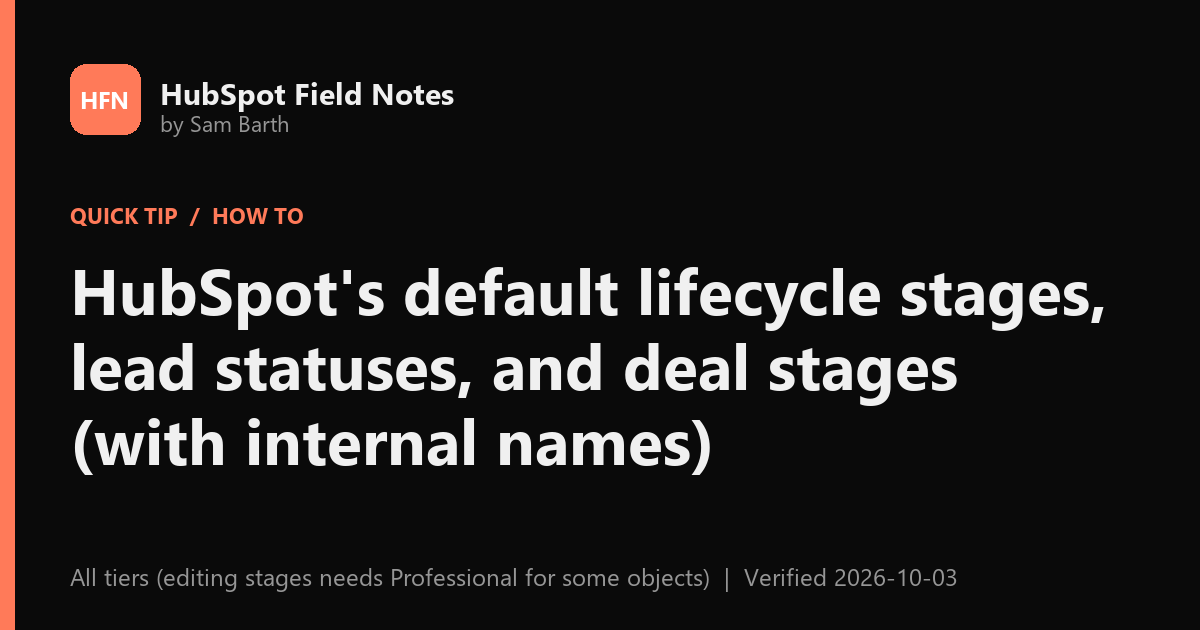
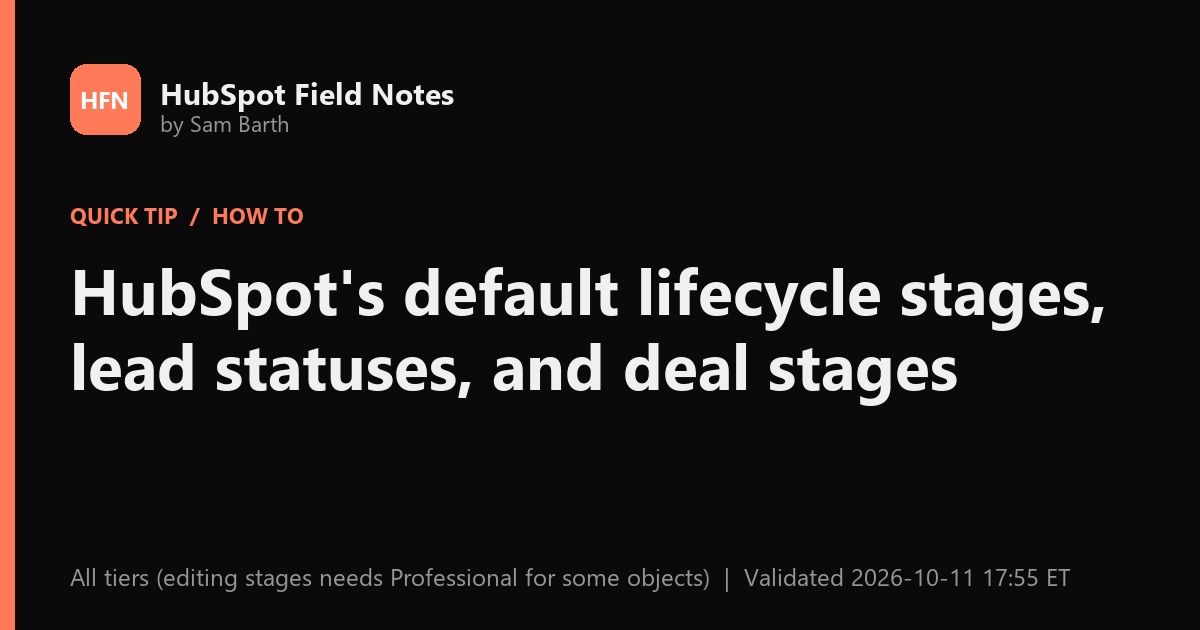
Rewrite which-reports-hubspot-can-build and default-lifecycle-and-deal-stages from KB, add Validated stamps

Changed region(s): [[0.0617, 0.6635, 0.6167, 0.754], [0.6167, 0.9048, 0.8942, 0.9349]]

diff --git a/articles/default-lifecycle-and-deal-stages/index.html b/articles/default-lifecycle-and-deal-stages/index.html
@@ -13,13 +13,13 @@
 <script>try{var t=localStorage.getItem('hfn-theme');if(t)document.documentElement.setAttribute('data-theme',t)}catch(e){}</script>
 <script id="hs-script-loader" async defer src="https://js.hs-scripts.com/20693956.js"></script>
 <!--/head-->
-<title>HubSpot's default lifecycle stages, lead statuses, and deal stages (with internal names) - HubSpot Field Notes</title>
-<meta name="description" content="The out-of-the-box HubSpot lifecycle stages, lead statuses, and default Sales Pipeline deal stages, with the internal values you need for imports, workflows, and APIs.">
+<title>HubSpot's default lifecycle stages, lead statuses, and deal stages - HubSpot Field Notes</title>
+<meta name="description" content="The out-of-the-box HubSpot lifecycle stages, lead statuses, and default Sales Pipeline deal stages, in order, with the lifecycle internal values for imports and workflows.">
 <link rel="canonical" href="https://hubspot.samcbarth.com/articles/default-lifecycle-and-deal-stages/">
 <meta property="og:type" content="article">
 <meta property="og:url" content="https://hubspot.samcbarth.com/articles/default-lifecycle-and-deal-stages/">
-<meta property="og:title" content="HubSpot's default lifecycle stages, lead statuses, and deal stages (with internal names)">
-<meta property="og:description" content="The out-of-the-box HubSpot lifecycle stages, lead statuses, and default Sales Pipeline deal stages, with the internal values you need for imports, workflows, and APIs.">
+<meta property="og:title" content="HubSpot's default lifecycle stages, lead statuses, and deal stages">
+<meta property="og:description" content="The out-of-the-box HubSpot lifecycle stages, lead statuses, and default Sales Pipeline deal stages, in order, with the lifecycle internal values for imports and workflows.">
 <meta property="og:image" content="https://hubspot.samcbarth.com/articles/default-lifecycle-and-deal-stages/og.png">
 <meta property="article:published_time" content="2026-10-03">
 <meta property="article:modified_time" content="2026-10-03">
@@ -30,8 +30,8 @@
   "@graph": [
     {
       "@type": "TechArticle",
-      "headline": "HubSpot's default lifecycle stages, lead statuses, and deal stages (with internal names)",
-      "description": "The out-of-the-box HubSpot lifecycle stages, lead statuses, and default Sales Pipeline deal stages, with the internal values you need for imports, workflows, and APIs.",
+      "headline": "HubSpot's default lifecycle stages, lead statuses, and deal stages",
+      "description": "The out-of-the-box HubSpot lifecycle stages, lead statuses, and default Sales Pipeline deal stages, in order, with the lifecycle internal values for imports and workflows.",
       "datePublished": "2026-10-03",
       "dateModified": "2026-10-03",
       "author": { "@type": "Person", "name": "Sam Barth", "url": "https://samcbarth.com" },
@@ -55,7 +55,7 @@
       "@type": "BreadcrumbList",
       "itemListElement": [
         { "@type": "ListItem", "position": 1, "name": "HubSpot Field Notes", "item": "https://hubspot.samcbarth.com/" },
-        { "@type": "ListItem", "position": 2, "name": "HubSpot's default lifecycle stages, lead statuses, and deal stages (with internal names)", "item": "https://hubspot.samcbarth.com/articles/default-lifecycle-and-deal-stages/" }
+        { "@type": "ListItem", "position": 2, "name": "HubSpot's default lifecycle stages, lead statuses, and deal stages", "item": "https://hubspot.samcbarth.com/articles/default-lifecycle-and-deal-stages/" }
       ]
     }
   ]
@@ -86,13 +86,13 @@
     <nav class="crumbs" aria-label="Breadcrumb"><a href="../../">All articles</a> / <a href="../../?feature=Properties">Properties</a></nav>
     <header class="article-head">
       <div class="badges"><span class="badge badge-type">Quick tip</span><span class="badge badge-problem">How to</span><span class="badge">Smart CRM</span><span class="badge">Sales Hub</span></div>
-      <h1>HubSpot's default lifecycle stages, lead statuses, and deal stages (with internal names)</h1>
+      <h1>HubSpot's default lifecycle stages, lead statuses, and deal stages</h1>
       <p class="dek">Someone asks what HubSpot's standard stages are, or you need the exact internal value for an import file. Here they are, checked in a live portal.</p>
       <dl class="facts">
         <div class="fact"><dt>Subscription</dt><dd>All tiers (editing stages needs Professional for some objects)</dd></div>
         <div class="fact"><dt>Permissions</dt><dd>Any user can view; Edit property settings to change</dd></div>
         <div class="fact"><dt>Time</dt><dd>5 min &middot; Beginner</dd></div>
-        <div class="fact"><dt>Last verified</dt><dd><time datetime="2026-10-03">October 3, 2026</time></dd></div>
+        <div class="fact"><dt>Validated</dt><dd><time datetime="2026-10-11T17:55:00-04:00">October 11, 2026, 5:55 PM ET</time></dd></div>
       </dl>
       <div data-portal-box></div>
     </header>
@@ -102,7 +102,7 @@
       <article class="prose">
         <div class="tldr">
           <h2>Short answer</h2>
-          <p>Default lifecycle stages: Subscriber, Lead, Marketing Qualified Lead, Sales Qualified Lead, Opportunity, Customer, Evangelist, Other. Default lead statuses: New, Open, In Progress, Open Deal, Unqualified, Attempted to Contact, Connected, Bad Timing. Default Sales Pipeline: Appointment Scheduled, Qualified To Buy, Presentation Scheduled, Decision Maker Bought-In, Contract Sent, Closed Won, Closed Lost. Internal names are below, because imports and APIs need them, not the labels.</p>
+          <p>Default lifecycle stages, in order: Subscriber, Lead, Marketing Qualified Lead, Sales Qualified Lead, Opportunity, Customer, Evangelist, Other. Default lead statuses: New, Open, In Progress, Open Deal, Unqualified, Attempted to Contact, Connected, Bad Timing. Default Sales Pipeline stages: Appointment scheduled, Qualified to buy, Presentation scheduled, Decision maker bought-in, Contract sent, Closed won, Closed lost. Imports and APIs need the internal values, not the labels, so check those in your portal before you write a file.</p>
         </div>
 
         <h2>1. Lifecycle stages</h2>
@@ -119,30 +119,31 @@
         </ol>
         <figure class="shot"><a href="lifecycle.webp"><img src="lifecycle.webp" alt="Lifecycle Stage property options list showing labels and internal names with the internal name column highlighted" width="800" height="613" loading="lazy"></a><figcaption>Lifecycle Stage options and internal names. The With value column counts contacts in each stage.</figcaption></figure>
         <div class="callout"><span class="callout-title">Use the internal name in files</span><p>Workflows, forms, and API calls use the internal value. The label "Sales Qualified Lead" and the value <code>salesqualifiedlead</code> are not the same string in code.</p></div>
+        <p>The default property only moves forward through automatic updates. To set an earlier stage, clear the value first, manually or in a workflow.</p>
 
         <h2>2. Lead status</h2>
-        <p>Lead Status is a separate contact property. In the default setup the options are New (<code>NEW</code>), Open (<code>OPEN</code>), In Progress (<code>IN_PROGRESS</code>), Open Deal (<code>OPEN_DEAL</code>), Unqualified (<code>UNQUALIFIED</code>), Attempted to Contact (<code>ATTEMPTED_TO_CONTACT</code>), Connected (<code>CONNECTED</code>), and Bad Timing (<code>BAD_TIMING</code>). Many portals edit these, so check yours before copying a list.</p>
+        <p>Lead Status is a separate property. It describes the sub-stages within Sales Qualified Lead. The default options are New, Open, In Progress, Open Deal, Unqualified, Attempted to Contact, Connected, and Bad Timing. Many portals edit these, so check yours before you copy a list. Open the property's options to see the internal value for each one.</p>
 
         <h2>3. The default Sales Pipeline</h2>
         <p>On the <a class="hs-link" data-hs="/contacts/{portalId}/objects/0-3/views/all/list" href="https://app.hubspot.com/l/contacts/objects/0-3/views/all/list"><span class="ui">Deals</span></a> page, the pipeline picker lists every pipeline in the account. The default one is called Sales Pipeline. <span class="ui">Manage pipelines</span> at the bottom of the list opens the settings page.</p>
         <figure class="shot"><a href="pipeline-picker.webp"><img src="pipeline-picker.webp" alt="Deals board pipeline picker listing pipelines with Manage pipelines highlighted" width="800" height="613" loading="lazy"></a><figcaption>The pipeline picker. Manage pipelines opens pipeline settings.</figcaption></figure>
-        <p>Choosing Sales Pipeline shows its seven stages as columns on the board.</p>
+        <p>Choosing Sales Pipeline shows its stages as columns on the board.</p>
         <figure class="shot"><a href="board.webp"><img src="board.webp" alt="Deals board for the Sales Pipeline showing stage columns with the stage names highlighted" width="800" height="613" loading="lazy"></a><figcaption>Sales Pipeline stage columns. Deal names are blurred.</figcaption></figure>
-        <p>The stages, in order, with their internal IDs and default win probabilities:</p>
+        <p>The default deal stages, in order, with their default probabilities:</p>
         <ul>
-          <li>Appointment Scheduled (<code>appointmentscheduled</code>, 20%)</li>
-          <li>Qualified To Buy (<code>qualifiedtobuy</code>, 40%)</li>
-          <li>Presentation Scheduled (<code>presentationscheduled</code>, 60%)</li>
-          <li>Decision Maker Bought-In (<code>decisionmakerboughtin</code>, 80%)</li>
-          <li>Contract Sent (<code>contractsent</code>, 90%)</li>
-          <li>Closed Won (<code>closedwon</code>, 100%)</li>
-          <li>Closed Lost (<code>closedlost</code>, 0%)</li>
+          <li>Appointment scheduled (20%)</li>
+          <li>Qualified to buy (40%)</li>
+          <li>Presentation scheduled (60%)</li>
+          <li>Decision maker bought-in (80%)</li>
+          <li>Contract sent (90%)</li>
+          <li>Closed won (100%, won)</li>
+          <li>Closed lost (0%, lost)</li>
         </ul>
-        <p>Custom pipelines you create get numeric stage IDs instead, so look them up before you import deals into them.</p>
+        <p>To see a stage's internal ID, open the pipeline in the settings, then hover over the stage and click the internal name icon. Use that value in integrations and imports. Custom pipelines have their own stages, so look up their IDs the same way.</p>
 
         <h2>Sources</h2>
         <ul class="sources">
-          <li><a href="https://knowledge.hubspot.com/records/use-lifecycle-stages">HubSpot Knowledge Base: Use lifecycle stages</a></li>
+          <li><a href="https://knowledge.hubspot.com/records/use-lifecycle-stages">HubSpot Knowledge Base: Use contact and company lifecycle stages</a></li>
           <li><a href="https://knowledge.hubspot.com/object-settings/set-up-and-customize-pipelines">HubSpot Knowledge Base: Set up and manage object pipelines</a></li>
           <li><a href="https://knowledge.hubspot.com/properties/hubspots-default-deal-properties">HubSpot Knowledge Base: HubSpot's default deal properties</a></li>
         </ul>

diff --git a/index.html b/index.html
@@ -980,10 +980,10 @@
 <a class="card" href="articles/starter-page-limit/"><div class="badges"><span class="badge badge-type">Quick tip</span><span class="badge badge-problem">Gotcha</span><span class="badge">Content Hub</span></div><h3>&#39;You have reached your page limit&#39; in HubSpot: look at your drafts</h3><p>HubSpot&#39;s Starter tier limits how many landing pages you can create. Untitled drafts show up in the same list as live pages, so check them first.</p><div class="card-meta"><span>4 min</span><span>Beginner</span><span>Validated 2026-10-11 17:35 ET</span></div></a>
 <a class="card" href="articles/offline-sources-explained/"><div class="badges"><span class="badge badge-type">Guide</span><span class="badge badge-problem">Hidden trick</span><span class="badge">Marketing Hub</span><span class="badge">Smart CRM</span></div><h3>HubSpot &#39;Offline Sources&#39; is not offline: how to see what created those contacts</h3><p>Offline Sources is a traffic source bucket for records with no tracked web source. How to read the drill-downs, and the Record Source property that shows how a record was created.</p><div class="card-meta"><span>12 min</span><span>Intermediate</span><span>Validated 2026-10-11 17:40 ET</span></div></a>
 <a class="card" href="articles/campaign-zero-sessions/"><div class="badges"><span class="badge badge-type">Guide</span><span class="badge badge-problem">Fix it</span><span class="badge">Marketing Hub</span></div><h3>HubSpot campaign shows lots of influenced contacts but 0 sessions? You need tracking URLs</h3><p>A HubSpot campaign full of assets can show hundreds of influenced contacts and zero sessions. Sessions only count when visits arrive through the campaign&#39;s tracking URL.</p><div class="card-meta"><span>10 min</span><span>Intermediate</span><span>Validated 2026-10-11 17:45 ET</span></div></a>
-<a class="card" href="articles/which-reports-hubspot-can-build/"><div class="badges"><span class="badge badge-type">Guide</span><span class="badge badge-problem">How to</span><span class="badge">Smart CRM</span><span class="badge">Marketing Hub</span></div><h3>Which reports can HubSpot build? Report types, limits, and what needs a higher tier</h3><p>HubSpot&#39;s custom report types: single object, funnel, custom report builder, attribution, and email reports. What each can and cannot do, and which tier you need.</p><div class="card-meta"><span>8 min</span><span>Beginner</span><span>Verified 2026-10-03</span></div></a>
+<a class="card" href="articles/which-reports-hubspot-can-build/"><div class="badges"><span class="badge badge-type">Guide</span><span class="badge badge-problem">How to</span><span class="badge">Smart CRM</span><span class="badge">Marketing Hub</span></div><h3>Which reports can HubSpot build? Report types, limits, and what needs a higher tier</h3><p>HubSpot&#39;s custom report types: single object, funnel, custom report builder, attribution, and email reports. What each can and cannot do, and which tier you need.</p><div class="card-meta"><span>8 min</span><span>Beginner</span><span>Validated 2026-10-11 17:50 ET</span></div></a>
 <a class="card" href="articles/hubsql-beta-api/"><div class="badges"><span class="badge badge-type">Quick tip</span><span class="badge badge-problem">Developer</span><span class="badge">Smart CRM</span></div><h3>HubSQL beta: what it is, what it is not, and the 403 MISSING_SCOPES fix</h3><p>HubSpot&#39;s HubSQL beta lets you run SQL against CRM data over an API. What it can do, why it cannot connect to your SQL server, and how to fix a 403 for missing scopes.</p><div class="card-meta"><span>6 min</span><span>Advanced</span><span>Validated 2026-10-11 15:05 ET</span></div></a>
 <a class="card" href="articles/speed-up-landing-page/"><div class="badges"><span class="badge badge-type">Guide</span><span class="badge badge-problem">How to</span><span class="badge">Content Hub</span></div><h3>Speed up a HubSpot landing page: measure first, then fix images and page-level code</h3><p>How to find out why a HubSpot landing page is slow with Lighthouse, then fix the usual causes: heavy images, layout shift, and extra scripts in the page&#39;s Head and Footer HTML.</p><div class="card-meta"><span>15 min</span><span>Intermediate</span><span>Validated 2026-10-11 15:05 ET</span></div></a>
-<a class="card" href="articles/default-lifecycle-and-deal-stages/"><div class="badges"><span class="badge badge-type">Quick tip</span><span class="badge badge-problem">How to</span><span class="badge">Smart CRM</span><span class="badge">Sales Hub</span></div><h3>HubSpot&#39;s default lifecycle stages, lead statuses, and deal stages (with internal names)</h3><p>The out-of-the-box HubSpot lifecycle stages, lead statuses, and default Sales Pipeline deal stages, with the internal values you need for imports, workflows, and APIs.</p><div class="card-meta"><span>5 min</span><span>Beginner</span><span>Verified 2026-10-03</span></div></a>
+<a class="card" href="articles/default-lifecycle-and-deal-stages/"><div class="badges"><span class="badge badge-type">Quick tip</span><span class="badge badge-problem">How to</span><span class="badge">Smart CRM</span><span class="badge">Sales Hub</span></div><h3>HubSpot&#39;s default lifecycle stages, lead statuses, and deal stages</h3><p>The out-of-the-box HubSpot lifecycle stages, lead statuses, and default Sales Pipeline deal stages, in order, with the lifecycle internal values for imports and workflows.</p><div class="card-meta"><span>5 min</span><span>Beginner</span><span>Validated 2026-10-11 17:55 ET</span></div></a>
 <a class="card" href="articles/lifecycle-date-properties/"><div class="badges"><span class="badge badge-type">Quick tip</span><span class="badge badge-problem">Hidden trick</span><span class="badge">Smart CRM</span><span class="badge">Marketing Hub</span></div><h3>Stop creating custom timestamp fields: HubSpot already tracks when a record entered each lifecycle stage</h3><p>HubSpot automatically creates date entered and time in stage properties for every lifecycle stage. Check them before you build custom date fields for a journey or funnel.</p><div class="card-meta"><span>6 min</span><span>Intermediate</span><span>Validated 2026-10-11 18:00 ET</span></div></a>
 <a class="card" href="articles/detect-hubspot-tracking-code/"><div class="badges"><span class="badge badge-type">Guide</span><span class="badge badge-problem">How to</span><span class="badge">Smart CRM</span><span class="badge">Marketing Hub</span></div><h3>How to tell if a website uses HubSpot: check for the tracking code</h3><p>HubSpot&#39;s tracking code is a script from js.hs-scripts.com with the account&#39;s Hub ID. How to check one site by hand, validate your own, and scan a list of domains.</p><div class="card-meta"><span>12 min</span><span>Intermediate</span><span>Verified 2026-10-03</span></div></a>
 <a class="card" href="articles/close-stale-deals/"><div class="badges"><span class="badge badge-type">Guide</span><span class="badge badge-problem">How to</span><span class="badge">Sales Hub</span></div><h3>How to close out stale HubSpot deals safely: check activity first, then use a reason</h3><p>A safe routine for closing old HubSpot deals: find stale ones on the board, check last activity and next steps, then move them to Closed Lost with a reason.</p><div class="card-meta"><span>10 min</span><span>Beginner</span><span>Verified 2026-10-03</span></div></a>

diff --git a/articles/which-reports-hubspot-can-build/index.html b/articles/which-reports-hubspot-can-build/index.html
@@ -93,7 +93,7 @@
         <div class="fact"><dt>Subscription</dt><dd>Custom reports need Professional or Enterprise</dd></div>
         <div class="fact"><dt>Permissions</dt><dd>Create and own, and Edit reports</dd></div>
         <div class="fact"><dt>Time</dt><dd>8 min &middot; Beginner</dd></div>
-        <div class="fact"><dt>Last verified</dt><dd><time datetime="2026-10-03">October 3, 2026</time></dd></div>
+        <div class="fact"><dt>Validated</dt><dd><time datetime="2026-10-11T17:50:00-04:00">October 11, 2026, 5:50 PM ET</time></dd></div>
       </dl>
       <div data-portal-box></div>
     </header>
@@ -103,7 +103,7 @@
       <article class="prose">
         <div class="tldr">
           <h2>Short answer</h2>
-          <p>Use a <strong>single object report</strong> when one object (contacts, deals, tickets) answers the question. It cannot join other data, but it updates quickly. Use the <strong>custom report builder</strong> when you need related objects or activities, accepting slower refreshes. <strong>Funnel</strong> reports measure stage conversion, and <strong>attribution</strong> reports are Marketing Hub or Content Hub Enterprise. Custom reports need Professional or Enterprise and create and own permissions.</p>
+          <p>Use a <strong>single object report</strong> when one object (contacts, deals, tickets) answers the question. It cannot join other data, but it typically updates faster because it queries the live CRM. Use the <strong>custom report builder</strong> when you need related objects or data sources. Those reports can take longer to configure and refresh about every two hours. <strong>Funnel</strong> reports measure conversion between stages. <strong>Attribution</strong> reports need Marketing Hub or Content Hub Enterprise, and deal create and revenue attribution need Marketing Hub Enterprise. Creating custom reports needs Professional or Enterprise, plus create and own and edit report permissions.</p>
         </div>
 
         <h2>1. Where reports start</h2>
@@ -113,22 +113,22 @@
         <h2>2. The Create menu</h2>
         <p>The <span class="ui">Create</span> button offers Create dashboard, Create report, and Create report with AI.</p>
         <figure class="shot"><a href="create-menu.webp"><img src="create-menu.webp" alt="Reports Create menu with Create report and Create report with AI highlighted" width="800" height="613" loading="lazy"></a><figcaption>The Create menu.</figcaption></figure>
-        <div class="callout warn"><span class="callout-title">You may be blocked by permissions</span><p>Report creation depends on permissions, not just subscription. With a user who lacks them, the menu item shows a tooltip and does nothing.</p></div>
+        <div class="callout warn"><span class="callout-title">Permissions can block creation</span><p>Report creation depends on permissions as well as subscription. For a user without them, the menu item shows a tooltip and does not open the builder. An admin can change this in Users and Teams.</p></div>
         <figure class="shot"><a href="no-access.webp"><img src="no-access.webp" alt="Tooltip saying you don't have access to create reports and to ask an admin to change permissions in Users and Teams" width="800" height="613" loading="lazy"></a><figcaption>The tooltip when the user lacks report creation permission.</figcaption></figure>
 
         <h2>3. The types, in the order to try them</h2>
         <ul>
-          <li><strong>Single object report.</strong> One object only, for example contacts by lifecycle stage. Cannot join other data. It queries the live CRM, so it updates quickly.</li>
-          <li><strong>Custom report builder.</strong> A primary data source plus related objects or sources, with extra fields and calculations. More capable, more complex, and it refreshes more slowly, about every two hours.</li>
-          <li><strong>Funnel reports.</strong> Conversion between lifecycle or pipeline stages. Enterprise can also build custom event funnels.</li>
-          <li><strong>Attribution reports.</strong> Contact, deal create, and revenue attribution. These are Marketing Hub or Content Hub Enterprise, and deal create and revenue attribution need Marketing Hub Enterprise.</li>
-          <li><strong>One-to-one email reports.</strong> Opens, clicks, and replies over time.</li>
+          <li><strong>Single object report.</strong> One object only, for example contacts by lifecycle stage. It cannot join other data sources. It queries the live CRM, so it typically updates faster.</li>
+          <li><strong>Custom report builder.</strong> A primary data source plus related objects or data sources, with extra fields and calculations. More capable and more complex to set up. Custom reports refresh about every two hours.</li>
+          <li><strong>Funnel reports.</strong> Conversion rates between lifecycle or pipeline stages. Enterprise can also build a custom events funnel.</li>
+          <li><strong>Attribution reports.</strong> Contact attribution needs Marketing Hub or Content Hub Enterprise. Deal create and revenue attribution need Marketing Hub Enterprise.</li>
+          <li><strong>One-to-one email reports.</strong> Open, click, and reply rates over time. Professional and Enterprise only.</li>
         </ul>
 
         <h2>4. Two limits to check first</h2>
         <ul>
-          <li>The number of custom reports depends on your subscription, and multiple subscriptions of the same tier do not add their limits together.</li>
-          <li>Creating a report needs create and own plus edit report permissions in Users and Teams.</li>
+          <li>The number of custom reports depends on your subscription. Multiple subscriptions of the same tier do not add their limits together.</li>
+          <li>Creating a custom report needs create and own plus edit report permissions in Users and Teams.</li>
         </ul>
 
         <h2>Sources</h2>

diff --git a/articles.js b/articles.js
@@ -313,6 +313,7 @@ var ARTICLES = [
     permissions: "Create and own, and Edit reports",
     verified: "2026-10-03",
     published: "2026-10-03",
+    validated: "2026-10-11 17:50 ET",
     minutes: 8,
     difficulty: "Beginner",
     keywords: ["custom report", "report builder", "report types", "funnel"],
@@ -353,8 +354,8 @@ var ARTICLES = [
   },
   {
     slug: "default-lifecycle-and-deal-stages",
-    title: "HubSpot's default lifecycle stages, lead statuses, and deal stages (with internal names)",
-    excerpt: "The out-of-the-box HubSpot lifecycle stages, lead statuses, and default Sales Pipeline deal stages, with the internal values you need for imports, workflows, and APIs.",
+    title: "HubSpot's default lifecycle stages, lead statuses, and deal stages",
+    excerpt: "The out-of-the-box HubSpot lifecycle stages, lead statuses, and default Sales Pipeline deal stages, in order, with the lifecycle internal values for imports and workflows.",
     type: "tip",
     problem: "How to",
     hubs: ["Smart CRM", "Sales Hub"],
@@ -363,6 +364,7 @@ var ARTICLES = [
     permissions: "Any user can view; Edit property settings to change",
     verified: "2026-10-03",
     published: "2026-10-03",
+    validated: "2026-10-11 17:55 ET",
     minutes: 5,
     difficulty: "Beginner",
     keywords: ["lifecycle stages", "lead status", "deal stages", "internal names", "default pipeline"]
